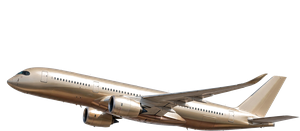
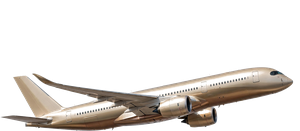
Loading screen: plane flies nose-first, level orbit

Changed region(s): [[0.0, 0.4885, 1.0, 1.0]]

diff --git a/src/components/ui/BrandedLoader.tsx b/src/components/ui/BrandedLoader.tsx
@@ -43,7 +43,7 @@ export const BrandedLoader: React.FC<{ message?: string }> = ({ message = 'Loadi
                   alt=""
                   className="w-20 h-auto drop-shadow-[0_10px_18px_rgba(201,162,39,0.55)]"
                 />
-                <div className="absolute left-[76%] top-1/2 -translate-y-1/2 h-[3px] w-20 rounded-full bg-gradient-to-r from-white/60 via-white/25 to-transparent blur-[1px]" />
+                <div className="absolute right-[76%] top-1/2 -translate-y-1/2 h-[3px] w-20 rounded-full bg-gradient-to-l from-white/60 via-white/25 to-transparent blur-[1px]" />
               </div>
             </div>
 
@@ -89,8 +89,8 @@ export const BrandedLoader: React.FC<{ message?: string }> = ({ message = 'Loadi
 
       <style>{`
         @keyframes orbitSpin {
-          0% { transform: rotateX(68deg) rotateZ(0deg); }
-          100% { transform: rotateX(68deg) rotateZ(360deg); }
+          0% { transform: rotateX(14deg) rotateZ(0deg); }
+          100% { transform: rotateX(14deg) rotateZ(360deg); }
         }
         @keyframes floatY {
           0%, 100% { transform: translateY(0); }
